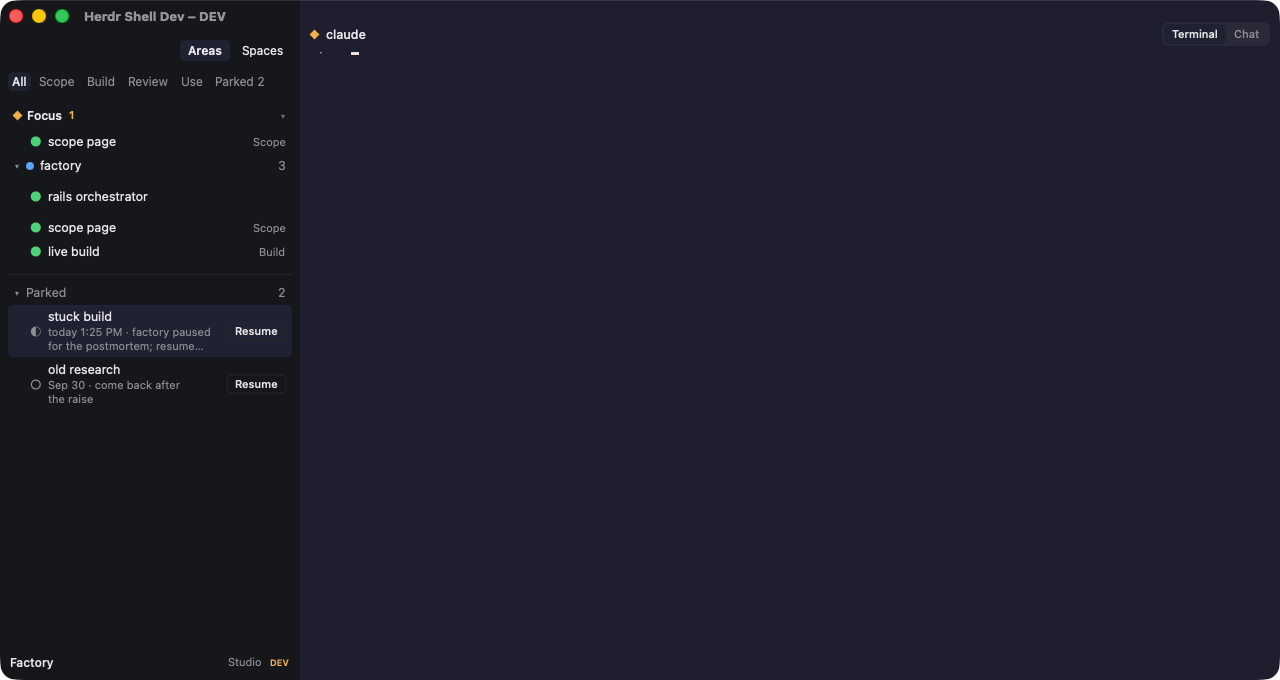
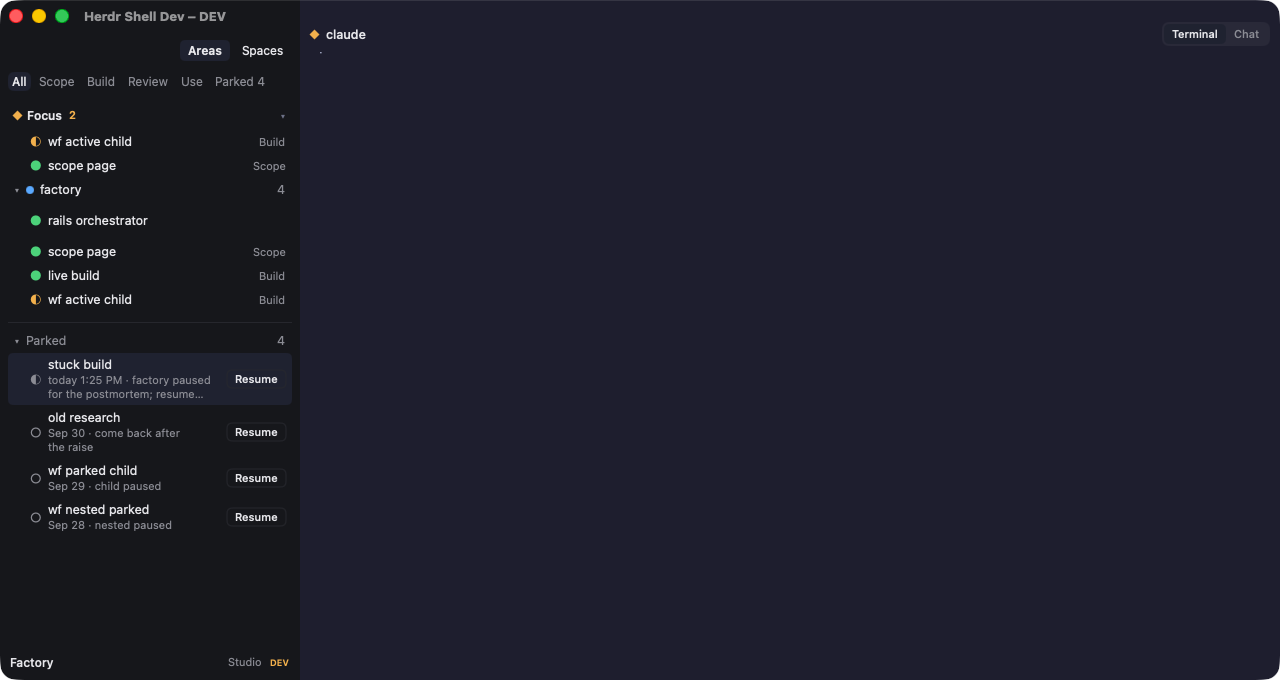
HerdrShell check_p26: Park and Resume go through this checkout's helper; by is herdr-shell@<host>
19/19 PASS in the Cua Space on shell/finish (P26 + R0 fixes + P30 + P28).

diff --git a/macos/HerdrShell/scripts/check_p26.py b/macos/HerdrShell/scripts/check_p26.py
@@ -219,6 +219,8 @@ def main():
         "HERDR_KIND_BIN": "/usr/bin/true",
         # The lab app's HOME is the lab home; point it at the installed lane tool.
         "HERDR_LANE_BIN": os.path.expanduser("~/.local/bin/herdr-lane"),
+        # Park and Resume go through the helper (P30); use this checkout's copy.
+        "HERDR_SHELL_REMOTE_BIN": os.path.join(D0, "bin", "herdr-shell-remote"),
     })
 
     if S.SPACE:
@@ -306,8 +308,8 @@ def main():
     s = wait_state(lambda s: "live build" not in live(s), 20)
     doc = modes_doc()
     entry = doc["tabs"].get(build, {})
-    check("Park runs herdr-lane park with the note and by=herdr-shell",
-          entry.get("mode") == "parked" and entry.get("note") == "waiting on the PC" and entry.get("by") == "herdr-shell",
+    check("Park runs herdr-lane park with the note and by=herdr-shell@<host>",
+          entry.get("mode") == "parked" and entry.get("note") == "waiting on the PC" and str(entry.get("by", "")).startswith("herdr-shell@"),
           json.dumps(entry))
     check("the parked row leaves its area at once", s is not None and "live build" not in live(s)
           and any(l["title"] == "live build" for l in parked_rows(s)))
